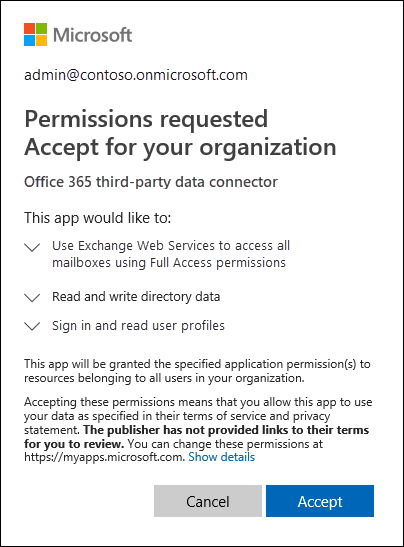
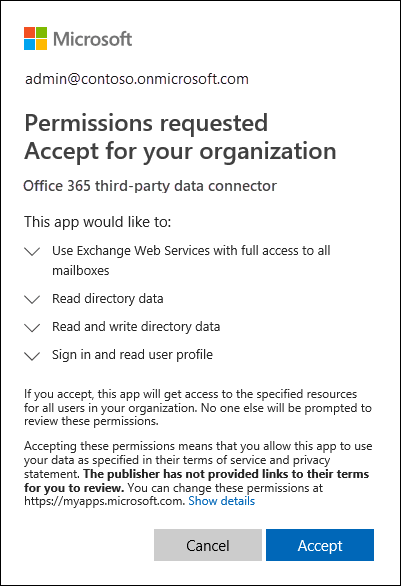
incorp tech feedback to third party import topic

diff --git a/SecurityCompliance/archiving-third-party-data.md b/SecurityCompliance/archiving-third-party-data.md
@@ -533,21 +533,27 @@ The final step is to provide your partner with the following information so they
 
 - The sign in credentials (Office 365 user ID and password) of the third-party data mailbox that you created in Step 2. These credentials are required so that the partner connector can access and import items to user mailboxes and to the third-party data mailbox.
  
-## New authentication method for third-party data connectors
+## Step 5: Register the third-party data connector in Azure Active Directory
 
-Starting in November 2018, the Azure service in Office 365 will begin using modern authentication in Exchange Online to authenticate third-party data connectors that attempt to connect to your Office 365 organization to import data. The reason for this change is that modern authentication provides more security than the current method, which was based on whitelisting third-party connectors that use the previously described endpoint to connect to the Azure service.
+Starting September 30, 2018, the Azure service in Office 365 will begin using modern authentication in Exchange Online to authenticate third-party data connectors that attempt to connect to your Office 365 organization to import data. The reason for this change is that modern authentication provides more security than the current method, which was based on whitelisting third-party connectors that use the previously described endpoint to connect to the Azure service.
 
-To enable an existing third-party data connector to connect to Office 365 using the new modern authentication method, an administrator in your Office 365 organization must opt-in by accepting a request to allow the connector to connect to your organization and access data in Azure Active Directory. After you accept this request, the third-party data connector is added as an enterprise application to Azure Active Directory. 
+To enable a third-party data connector to connect to Office 365 using the new modern authentication method, an administrator in your Office 365 organization must consent to register the connector as a trusted service application in Azure Active Directory. This is done by accepting a permissions request to allow the connector to access your organization's data in Azure Active Directory. After you accept this request, the third-party data connector is added as an enterprise application to Azure Active Directory and represented as a service principal. For more information the consent process, see  [Tenant Admin Consent](https://docs.microsoft.com/en-us/skype-sdk/trusted-application-api/docs/tenantadminconsent).
 
-Here are the steps to access and accept this request:
+Here are the steps to access and accept the request to register the connector:
 
 1. Go to [this page](https://login.microsoftonline.com/common/oauth2/authorize?client_id=8dfbc50b-2111-4d03-9b4d-dd0d00aae7a2&response_type=code&redirect_uri=https://login.microsoftonline.com/common/oauth2/nativeclient&nonce=1234&prompt=admin_consent) and sign in using the credentials of an Office 365 global administrator.<br/><br/>The following dialog box is displayed. You can expand the carets to review the permissions that will be assiged to the connector.<br/><br/>![The permissions request dialog is displayed](media/O365_ThirdPartyDataConnector_OptIn1.png)
 2. Click **Accept**.
 
-After you accept the request, the **Apps** page ([https://myapps.microsoft.com](https://myapps.microsoft.com)) for your organization is displayed and the Office 365 third-party data connector is listed.
+After you accept the request, the **Apps** page ([https://myapps.microsoft.com](https://myapps.microsoft.com)) for your organization is displayed and the Office 365 third-party data connector is listed. You can also access information about the connector on the **Enterprise applications** blade in Azure Active Directory in the Azure portal. 
 
 > [!IMPORTANT]
-> If you don't accept the permissions request for the third-party data connector, then third-party data will no longer be imported into mailboxes in your organization after November 1, 2018. Note that after you accept the permissions request, you can delete the third-party data connector app in Azure Active Directory.
+> After September 30, 2018, third-party data will no longer be imported into mailboxes in your organization if you don't register a third-party data connector in Azure Active Directory. Note existing third-party data connectors (those created before September 30, 2018) must also be registered in Azure Active Directory by following the procedure in Step 5.
+
+### Revoking consent for a third-party data connector
+
+After your organzation consents to the permissons request to register a third-party data connector in Azure Active Directory, your organization can revoke that consent at any time. However, revoking consent for a connector will mean that data from the third-party data source will no longer be imported into Office 365.
+
+To revoke consent for a third-party data connector, you can delete the application (by deleting the corresponding service principal) from Azure Active Directory using the **Enterprise applications** blade in the Azure portal, or by using the [Remove-MsolServicePrincipal](https://docs.microsoft.com/en-us/powershell/module/msonline/remove-msolserviceprincipal) in Office 365 PowerShell. You can also use the the [Remove-AzureADServicePrincipal](https://docs.microsoft.com/en-us/powershell/module/azuread/remove-azureadserviceprincipal) cmdlet in Azure Active Directory PowerShell.
   
 ## More information
 
